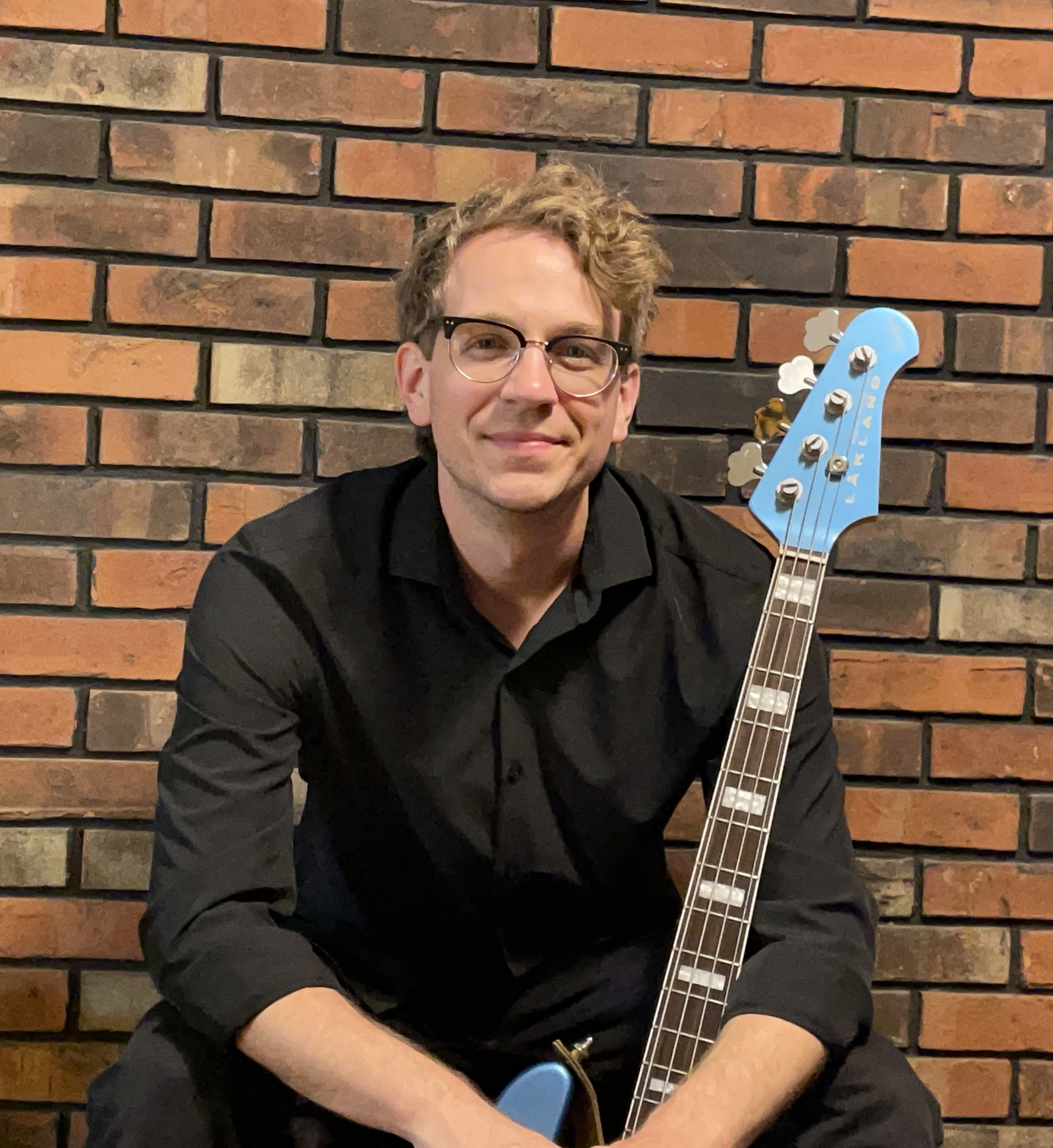
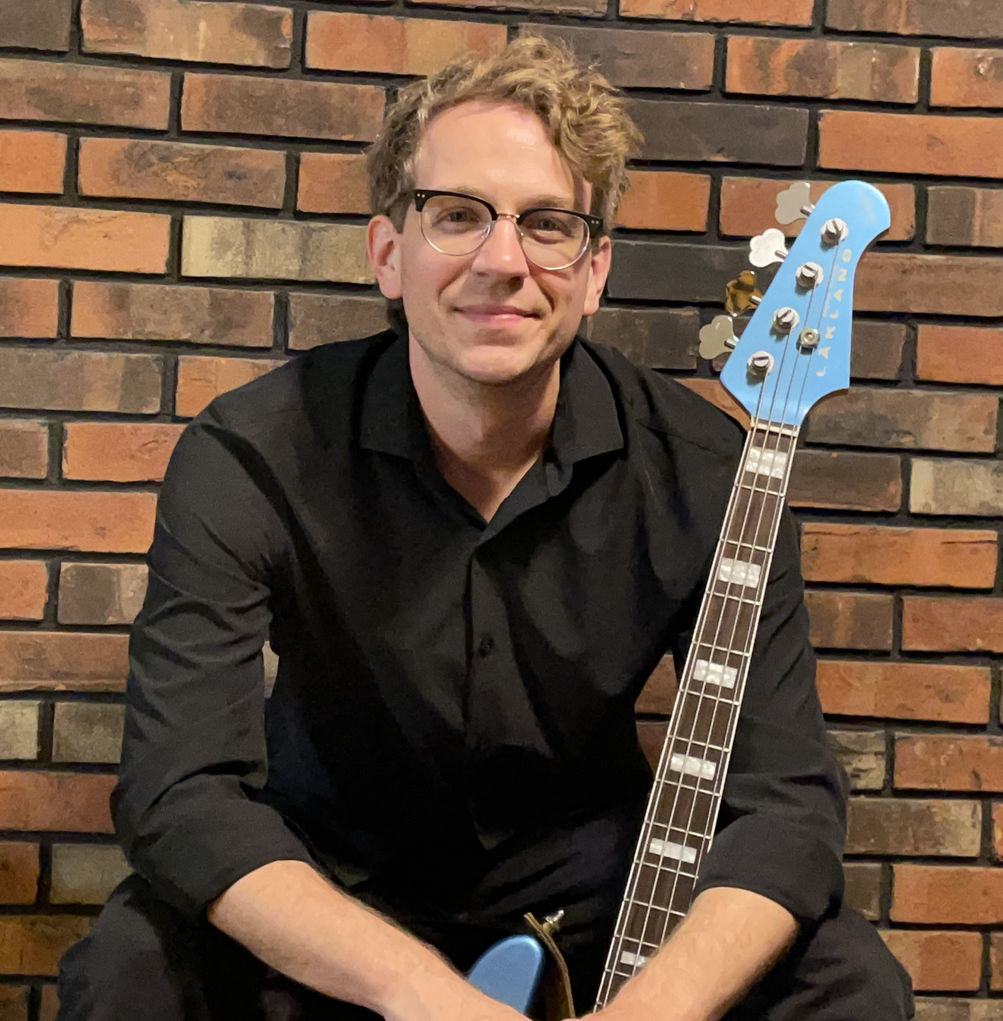
adjusted bio pics, added pic borders, adjusted css classes/id

diff --git a/bio.html b/bio.html
@@ -29,13 +29,13 @@
    </header> 
 
    <main class="bioMain">
-        <h2>Biography</h2>
+        <h2> Biography</h2>
             <!--<img src="img/tubaHeadshot1.JPG" alt="Jeff with his tuba"> -->
                 
                 <p>My name is Jeff Beers, and I am a musician living in Louisville, Kentucky. I started playing tuba when I was 10 years old for my grade school’s concert band. When I was 14, I started playing electric bass with several high school rock bands. The combination of formal music education at school on tuba, and the informal creation of music with my friends on bass is what drove my passion for music at a young age. I went on to get a bachelor’s degree in music performance from Southern Illinois University in 2014, and then a master’s degree in music performance from the University of Louisville in 2018.</p>
-                <img class="tubapic2" src="img/tuba2.jpg" alt="Jeff Beers with tuba">
+                <img class="bioPics" src="img/tuba2.jpg" alt="Jeff Beers with tuba">
                 <p>I currently play tuba with the Southern Illinois Music Festival as the principal tubist, Chamber Winds Louisville Concert Band, Old Lou’s Ragtime Band, and Boom Pah Pah polka band. As a freelance tuba player, I am regularly called for other New Orleans jazz bands, dixieland bands, and church services.</p>
-                <img class="basspic1" src="img/bass1.jpg" alt="Jeff Beers with his bass">
+                <img class="bioPics" src="img/bass1.jpg" alt="Jeff Beers with his bass">
                 <p>I also play bass with Louisville based the Usual Suspects Band, singer-songwriter Josh Murphy, and have collaborated in multiple socially distanced recording projects since the beginning of the pandemic. I have played countless musical pit orchestras, and some of my favorites to play are Rocky Horror Picture Show Live, Rock of Ages, Ragtime, Hairspray, and Chicago where I got to alternate playing tuba and bass throughout the show. </p>
                  
    

diff --git a/css/style.css b/css/style.css
@@ -11,7 +11,7 @@
     height: 125px;
     display: flex;
     justify-content: flex wrap;
-    justify-content: space-around;
+    justify-content: space-evenly;
     background-color: #457b9d;
     font-size: 50px;
     align-items: center;
@@ -23,6 +23,11 @@ h1, h2{font-size: 35px;
     font-weight: 500;
 }
 
+h2 {
+    color: #457b9d;
+    font-size: 60px;
+}
+
 .headerP{font-size: 30px;}
 
 
@@ -30,23 +35,29 @@ h1, h2{font-size: 35px;
 .homeMain{
     display: flex;
     justify-content: center;
-    background-color: #e4e5ed;
+    background-color: #E3ECF3;
+    padding: 10px;
 }
 
-.tubapic1{
+#homePic{
     width: 75%;   
+    border: 5px solid #457b9d;
 }/*END HOME PAGE CSS */
 
 /* BIO */
 .bioMain{
- 
-    background-color: #e4e5ed 
+    
+    background-color: #e3ecf3; 
+    padding: 20px;
 }
 
-.tubapic2 {width: 100%}
-.basspic1 {width: 100%}
+.bioPics {
+    width: 90%;
+    border: 5px solid #457b9d;
+}
 
 
+/* END BIO PAGE CSS /*
 
 
 /* Footer */

diff --git a/index.html b/index.html
@@ -29,7 +29,7 @@
    </header> 
 
    <main class="homeMain">
-        <img class="tubapic1" src="img/tubabw1.JPG" alt="Jeff Beers with his tuba">
+        <img id="homePic" src="img/tubabw1.JPG" alt="Jeff Beers with his tuba">
         
    </main>
 
